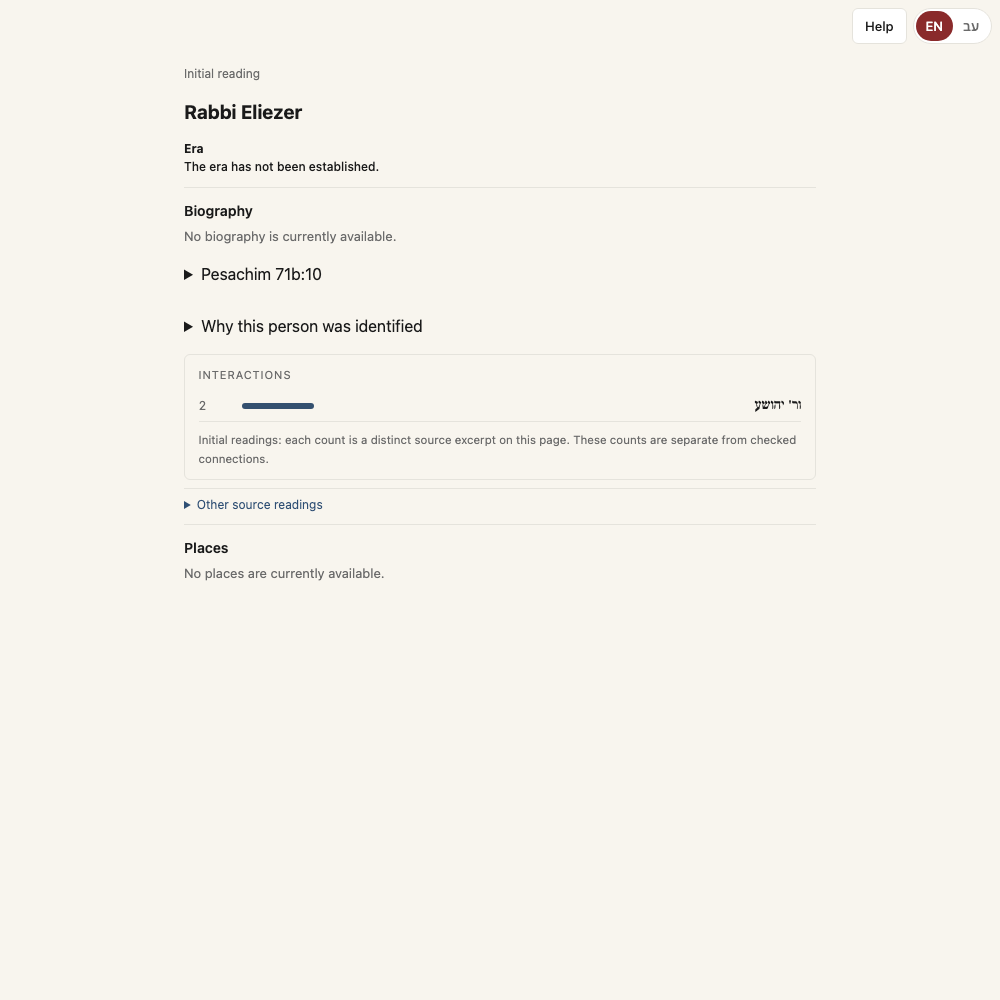
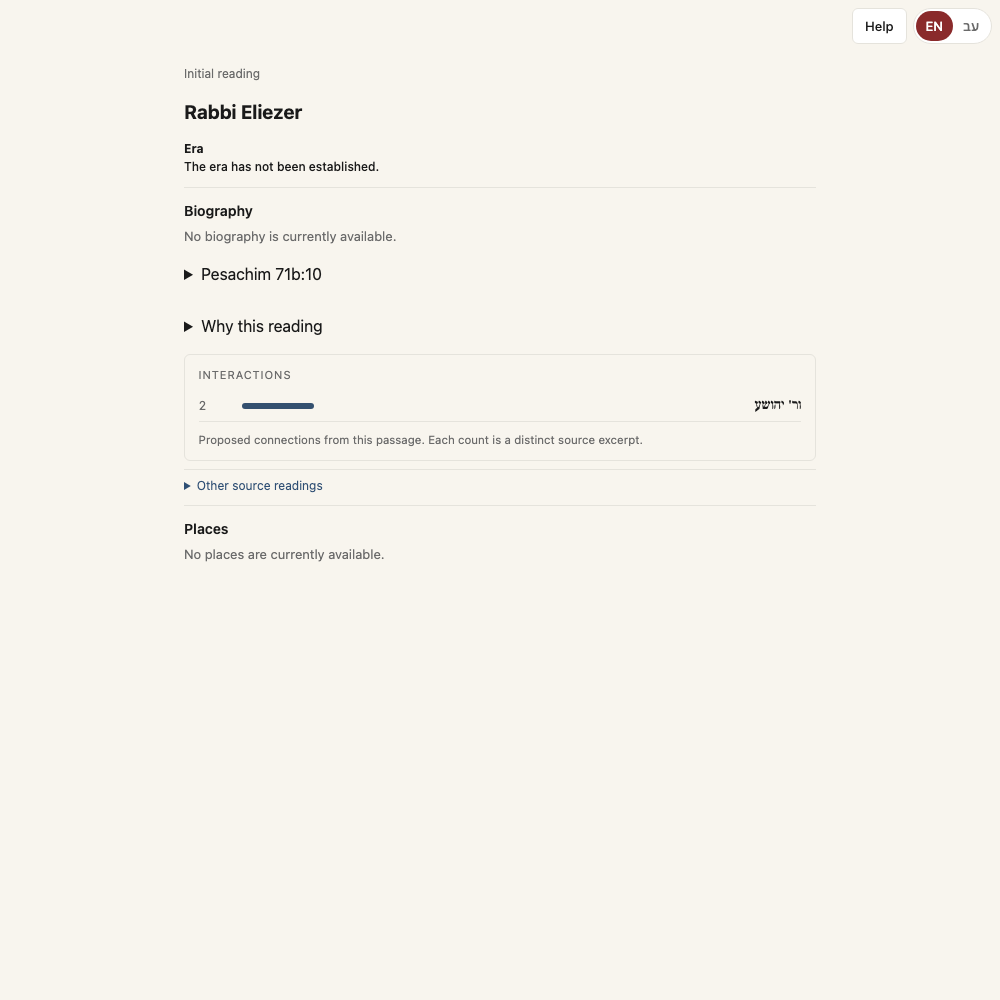
Clarify that initial cards describe proposed readings

Changed region(s): [[0.186, 0.434, 0.806, 0.589], [0.279, 0.31, 0.434, 0.341]]

diff --git a/packages/talmud/src/client/i18n.ts b/packages/talmud/src/client/i18n.ts
@@ -156,14 +156,14 @@ const CATALOG = {
   'initial.uncertainPerson': { en: 'Uncertain person', he: 'אדם לא ודאי' },
   'initial.cardTitle': { en: 'Initial reading', he: 'קריאה ראשונית' },
   'initial.title': { en: 'Initial readings', he: 'קריאות ראשוניות' },
-  'initial.basis': { en: 'Why this person was identified', he: 'הבסיס לזיהוי' },
+  'initial.basis': { en: 'Why this reading', he: 'הבסיס לקריאה זו' },
   'initial.description': {
     en: 'Names and relationships read from the text. These readings have not yet been independently checked.',
     he: 'שמות וקשרים שנקראו מתוך הטקסט. קריאות אלה טרם נבדקו בבדיקה עצמאית.',
   },
   'initial.counts': {
-    en: 'Initial readings: each count is a distinct source excerpt on this page. These counts are separate from checked connections.',
-    he: 'קריאות ראשוניות: כל מספר מייצג מובאה נפרדת בדף זה. ספירה זו נפרדת מהקשרים שנבדקו.',
+    en: 'Proposed connections from this passage. Each count is a distinct source excerpt.',
+    he: 'קשרים מוצעים מתוך הקטע. כל מספר מייצג מובאה נפרדת.',
   },
   'initial.evidence': { en: 'Source readings', he: 'קריאות המקור' },
   'initial.otherEvidence': {
